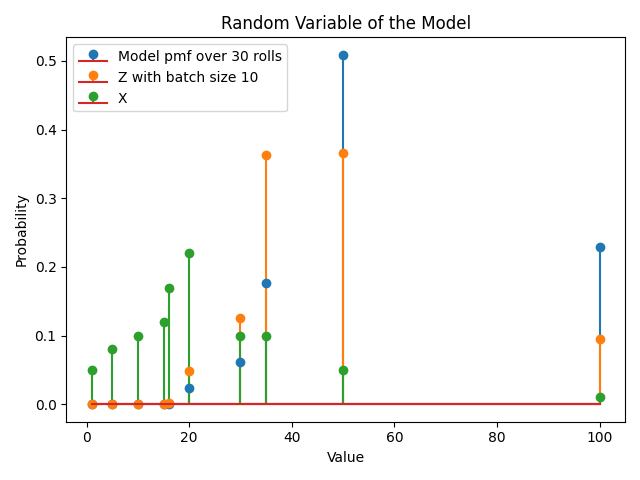
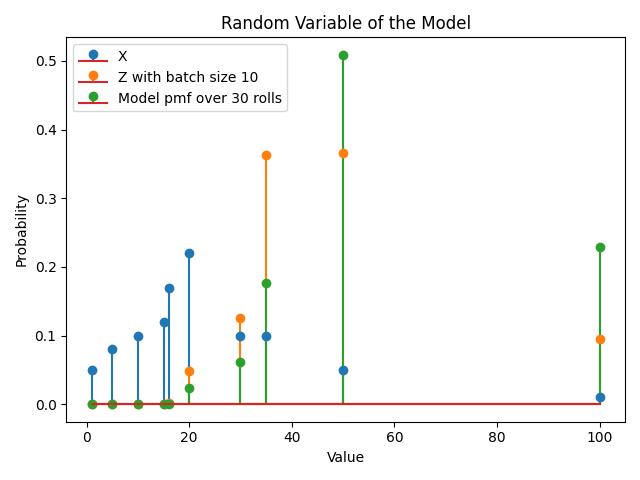
update graphs

diff --git a/graphs.py b/graphs.py
@@ -31,9 +31,9 @@ if graphs[2]:
 ### Graph 3: pmf of the model 
 m = model.Model(R)
 if graphs[3]:
-    graph_rv(X, [m.p_k(x) for x in X], 0, f"Model pmf over {R} rolls")
-    graph_rv(Z, [fz(z) for z in Z], 1, f"Z with batch size {b}")
-    graph_rv(X, p, 2, "X")
+    graph_rv(X, p, 0, "X")
+    graph_rv(Z, [fz(z) for z in Z], 1, f"Z with batch size {B}")
+    graph_rv(X, [m.p_k(x) for x in X], 2, f"Model pmf over {R} rolls")
     plt.title("Random Variable of the Model")
     plt.legend()
     plt.savefig("graphs/graph3.png")
